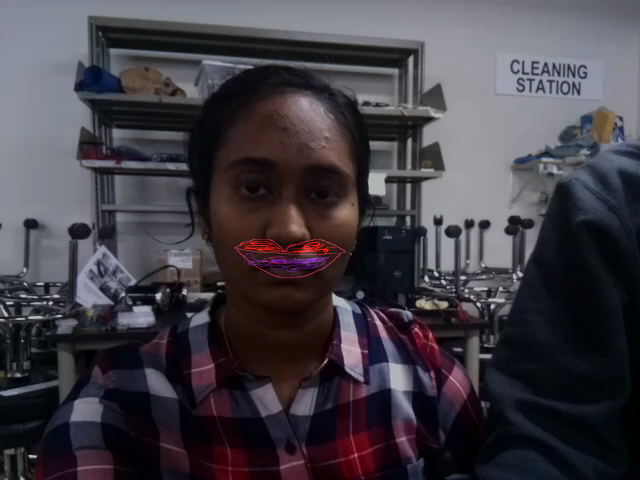
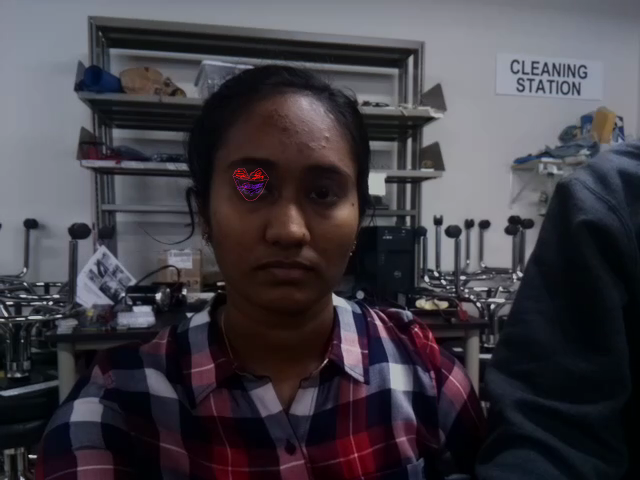
We commented all our code.

Changed region(s): [[0.375, 0.5, 0.5312, 0.5938], [0.3438, 0.3438, 0.4375, 0.4062]]

diff --git a/facialreceyes.py b/facialreceyes.py
@@ -1,3 +1,11 @@
+# Sonali Mahendran and Alisa Momin, Team 6
+# BIOE 421: Microcontroller Applications
+# Final Project: SnapPainter
+# Description: Detects the eyes on a person's face in each frame of
+# video and puts the filter on them. Recommended to use with glasses
+# filter.
+# SOURCE CODE: https://sublimerobots.com/2015/02/dancing-mustaches/
+
 #! /usr/bin/python
 
 import cv2  # OpenCV Library
@@ -19,19 +27,19 @@ faceCascade = cv2.CascadeClassifier(faceCascadeFilePath)
 noseCascade = cv2.CascadeClassifier(noseCascadeFilePath)
  
 #-----------------------------------------------------------------------------
-#       Load and configure mustache (.png with alpha transparency)
+#       Load and configure filter (.png with alpha transparency)
 #-----------------------------------------------------------------------------
  
-# Load our overlay image: mustache.png
+# Load our overlay image: Filter.png
 imgMustache = cv2.imread('/home/pi/bioe421project/drawpicture/Filter.png',-1)
  
-# Create the mask for the mustache
+# Create the mask for the filter
 orig_mask = imgMustache[:,:,3]
  
-# Create the inverted mask for the mustache
+# Create the inverted mask for the filter
 orig_mask_inv = cv2.bitwise_not(orig_mask)
  
-# Convert mustache image to BGR
+# Convert filter image to BGR
 # and save the original image size (used later when re-sizing the image)
 imgMustache = imgMustache[:,:,0:3]
 origMustacheHeight, origMustacheWidth = imgMustache.shape[:2]
@@ -70,20 +78,20 @@ while True:
         roi_gray = gray[y:y+h, x:x+w]
         roi_color = frame[y:y+h, x:x+w]
  
-        # Detect a nose within the region bounded by each face (the ROI)
+        # Detect eyes  within the region bounded by each face (the ROI)
         nose = noseCascade.detectMultiScale(roi_gray)
   
         for (nx,ny,nw,nh) in nose:
-            # Un-comment the next line for debug (draw box around the nose)
+            # Un-comment the next line for debug (draw box around the eyes)
             #cv2.rectangle(roi_color,(nx,ny),(nx+nw,ny+nh),(255,0,0),2)
  
-            # The mustache should be three times the width of the nose
+            # The filter should be three times the width of the nose
             mustacheWidth =  3 * nw
             mustacheHeight = mustacheWidth * origMustacheHeight / origMustacheWidth
  
-            # Center the mustache on the bottom of the nose
-            x1 = nx #- (mustacheWidth/4)
-            x2 = nx + nw #+ (mustacheWidth/4)
+            # Center the filter on the bottom of the nose
+            x1 = nx 
+            x2 = nx + nw 
             y1 = ny + nh - (mustacheHeight/2)
             y2 = ny + nh +(mustacheHeight/2)
  
@@ -97,24 +105,24 @@ while True:
             if y2 > h:
                 y2 = h
  
-            # Re-calculate the width and height of the mustache image
+            # Re-calculate the width and height of the filter image
             mustacheWidth = x2 - x1
             mustacheHeight = y2 - y1
 
-            # Re-size the original image and the masks to the mustache sizes
-            # calcualted above
+            # Re-size the original image and the masks to the filter sizes
+            # calculated above
             mustache = cv2.resize(imgMustache, (mustacheWidth,mustacheHeight), interpolation = cv2.INTER_AREA)
             mask = cv2.resize(orig_mask, (mustacheWidth,mustacheHeight), interpolation = cv2.INTER_AREA)
             mask_inv = cv2.resize(orig_mask_inv, (mustacheWidth,mustacheHeight), interpolation = cv2.INTER_AREA)
  
-            # take ROI for mustache from background equal to size of mustache image
+            # take ROI for filter from background equal to size of filter image
             roi = roi_color[y1:y2, x1:x2]
  
-            # roi_bg contains the original image only where the mustache is not
-            # in the region that is the size of the mustache.
+            # roi_bg contains the original image only where the filter is not
+            # in the region that is the size of the filter.
             roi_bg = cv2.bitwise_and(roi,roi,mask = mask_inv)
  
-            # roi_fg contains the image of the mustache only where the mustache is
+            # roi_fg contains the image of the filter only where the filter is
             roi_fg = cv2.bitwise_and(mustache,mustache,mask = mask)
  
             # join the roi_bg and roi_fg

diff --git a/facialreclips.py b/facialreclips.py
@@ -1,3 +1,11 @@
+# Sonali Mahendran and Alisa Momin, Team 6
+# BIOE 421: Microcontroller Applications
+# Final Project: SnapPainter
+# Description: Detects the mouth on a person's face in each frame of
+# video and puts the filter on it.  
+
+# SOURCE CODE: https://sublimerobots.com/2015/02/dancing-mustaches/
+
 #! /usr/bin/python
 
 import cv2  # OpenCV Library
@@ -22,13 +30,13 @@ noseCascade = cv2.CascadeClassifier(noseCascadeFilePath)
 #       Load and configure mustache (.png with alpha transparency)
 #-----------------------------------------------------------------------------
  
-# Load our overlay image: mustache.png
+# Load our overlay image: Filter.png
 imgMustache = cv2.imread('/home/pi/bioe421project/drawpicture/Filter.png',-1)
  
-# Create the mask for the mustache
+# Create the mask for the filter
 orig_mask = imgMustache[:,:,3]
  
-# Create the inverted mask for the mustache
+# Create the inverted mask for the filter
 orig_mask_inv = cv2.bitwise_not(orig_mask)
  
 # Convert mustache image to BGR
@@ -77,11 +85,11 @@ while True:
             # Un-comment the next line for debug (draw box around the nose)
             #cv2.rectangle(roi_color,(nx,ny),(nx+nw,ny+nh),(255,0,0),2)
  
-            # The mustache should be three times the width of the nose
+            # The filter should be three times the width of the nose
             mustacheWidth =  3 * nw
             mustacheHeight = mustacheWidth * origMustacheHeight / origMustacheWidth
  
-            # Center the mustache on the bottom of the nose
+            # Center the filter on the lips
             x1 = nx #- (mustacheWidth/4)
             x2 = nx + nw #+ (mustacheWidth/4)
             y1 = ny + nh - (mustacheHeight/2)
@@ -97,24 +105,24 @@ while True:
             if y2 > h:
                 y2 = h
  
-            # Re-calculate the width and height of the mustache image
+            # Re-calculate the width and height of the filter image
             mustacheWidth = x2 - x1
             mustacheHeight = y2 - y1
 
-            # Re-size the original image and the masks to the mustache sizes
+            # Re-size the original image and the masks to the filter sizes
             # calcualted above
             mustache = cv2.resize(imgMustache, (mustacheWidth,mustacheHeight), interpolation = cv2.INTER_AREA)
             mask = cv2.resize(orig_mask, (mustacheWidth,mustacheHeight), interpolation = cv2.INTER_AREA)
             mask_inv = cv2.resize(orig_mask_inv, (mustacheWidth,mustacheHeight), interpolation = cv2.INTER_AREA)
  
-            # take ROI for mustache from background equal to size of mustache image
+            # take ROI for filter from background equal to size of filter image
             roi = roi_color[y1:y2, x1:x2]
  
-            # roi_bg contains the original image only where the mustache is not
-            # in the region that is the size of the mustache.
+            # roi_bg contains the original image only where the filter is not
+            # in the region that is the size of the filter.
             roi_bg = cv2.bitwise_and(roi,roi,mask = mask_inv)
  
-            # roi_fg contains the image of the mustache only where the mustache is
+            # roi_fg contains the image of the filter only where the filter is
             roi_fg = cv2.bitwise_and(mustache,mustache,mask = mask)
  
             # join the roi_bg and roi_fg
@@ -134,7 +142,7 @@ while True:
     if cv2.waitKey(1) & 0xFF == ord('q'):
         break
 
-
+# play the modified video
 os.system("ffmpeg -f image2 -framerate 12 -i /home/pi/bioe421project/modifiedframes/%d.png playback.avi")
 os.system("omxplayer playback.avi")
 # When everything is done, release the capture

diff --git a/guitest.py b/guitest.py
@@ -1,3 +1,10 @@
+# Sonali Mahendran and Alisa Momin, Team 6
+# BIOE 421: Microcontroller Applications
+# Final Project: SnapPainter
+# Description: This code creates the user interface for our final project
+# such that the user can press buttons to take a picture, draw a filter, and
+# apply the filter to a specific facial feature.
+
 #! usr/bin/python
 
 from Tkinter import *
@@ -6,9 +13,10 @@ import RPi.GPIO as GPIO
 import os
 
 win = Tk()
-
+# set font type and size
 myFont = tkFont.Font(family = 'Impact', size = 30) 
 
+# define what script to run for each button
 def VideoON():
 	os.system("python /home/pi/bioe421project/SaveVideo.py")
 
@@ -23,17 +31,18 @@ def FilterLipsON():
 
 def DrawON():
 	os.system("processing-java --sketch=/home/pi/bioe421project/drawpicture --run")
-
+# allows user to exit the program when finished
 def exitProgram():
 	print("Exit Button pressed")
         GPIO.cleanup()
 	win.quit()	
 
 
-win.title("BIOE 421 Final Project by Sonali Mahendran and Alisa Momin")
-win.geometry('800x480')
-win.configure(bg = 'sky blue')
+win.title("SnapPainter by Sonali Mahendran and Alisa Momin")
+win.geometry('800x480') # set screen size
+win.configure(bg = 'sky blue') # set background color
 
+# create actual buttons for each functionality
 exitButton  = Button(win, text = "Exit", font = myFont, command = exitProgram, height = 1 , width = 4, background = 'red', foreground = 'white') 
 exitButton.pack(side = BOTTOM)
 
@@ -42,7 +51,6 @@ VideoButton.pack()
 
 DrawButton = Button(win, text = "Draw a filter!", font = myFont, command = DrawON, height = 1, width = 14, background = 'coral', foreground = 'ivory' )
 DrawButton.pack()
-
 
 FilterMustacheButton = Button(win, text = "Add your filter below the nose!", font = myFont, command = FilterMustacheON, height = 1, width = 24 , background = 'teal', foreground = 'ivory' )
 FilterMustacheButton.pack()

diff --git a/SaveVideo.py b/SaveVideo.py
@@ -1,19 +1,23 @@
+# Sonali Mahendran and Alisa Momin, Team 6
+# BIOE 421: Microcontroller Applications
+# Final Project: SnapPainter
+# Description: Allows the user to take their own video to 
+# add a filter to. Saves the video as a MP4 using conversion tool.
+
 #! /usr/bin/python
 
 import picamera
 import cv2
 import os
 
+# removes video already present if this code was run previously
 os.system("rm find_our_faces.mp4") 
 
 with picamera.PiCamera() as camera:
-	camera.resolution = (640, 480)
+	camera.resolution = (640, 480) #camera resolution set
 	camera.start_preview()
 	camera.framerate = 24
-	camera.start_recording('/home/pi/bioe421project/find_our_faces.h264')
-	camera.wait_recording(10)
-#	key =  cv2.waitKey(1) & 0xFF  
-#	if key == ord('q'):
+	camera.start_recording('/home/pi/bioe421project/find_our_faces.h264') #starts h264 recording
+	camera.wait_recording(10) # captures for 10 seconds
 	camera.stop_recording()
-#        ffmpeg -i find_our_faces.h264 -vcodec mjpeg -qscale 1 -an find_our_faces.avi
 	os.system("MP4Box -fps 30 -add /home/pi/bioe421project/find_our_faces.h264 /home/pi/bioe421project/find_our_faces.mp4")	

diff --git a/facialrec.py b/facialrec.py
@@ -1,3 +1,11 @@
+# Sonali Mahendran and Alisa Momin, Team 6
+# BIOE 421: Microcontroller Applications
+# Final Project: SnapPainter
+# Description: Detects the nose on a person's face in each frame of
+# video and puts the filter below it. Recommended to use with mustache
+# filter.
+# SOURCE CODE: https://sublimerobots.com/2015/02/dancing-mustaches/
+
 #! /usr/bin/python
 
 import cv2  # OpenCV Library
@@ -134,7 +142,7 @@ while True:
     if cv2.waitKey(1) & 0xFF == ord('q'):
         break
 
-
+# plays video
 os.system("ffmpeg -f image2 -framerate 12 -i /home/pi/bioe421project/modifiedframes/%d.png playback.avi")
 os.system("omxplayer playback.avi")
 # When everything is done, release the capture

diff --git a/README.md b/README.md
@@ -1,4 +1,4 @@
-# Alisa Momin, Sonali Mahendran, Rice BIOE 421 Final Project: Color Mouse and Filter Overlay
+# Alisa Momin, Sonali Mahendran (Team 6): Rice BIOE 421 Final Project: SnapPainter
 
 ## Project Brainstorm:
 
